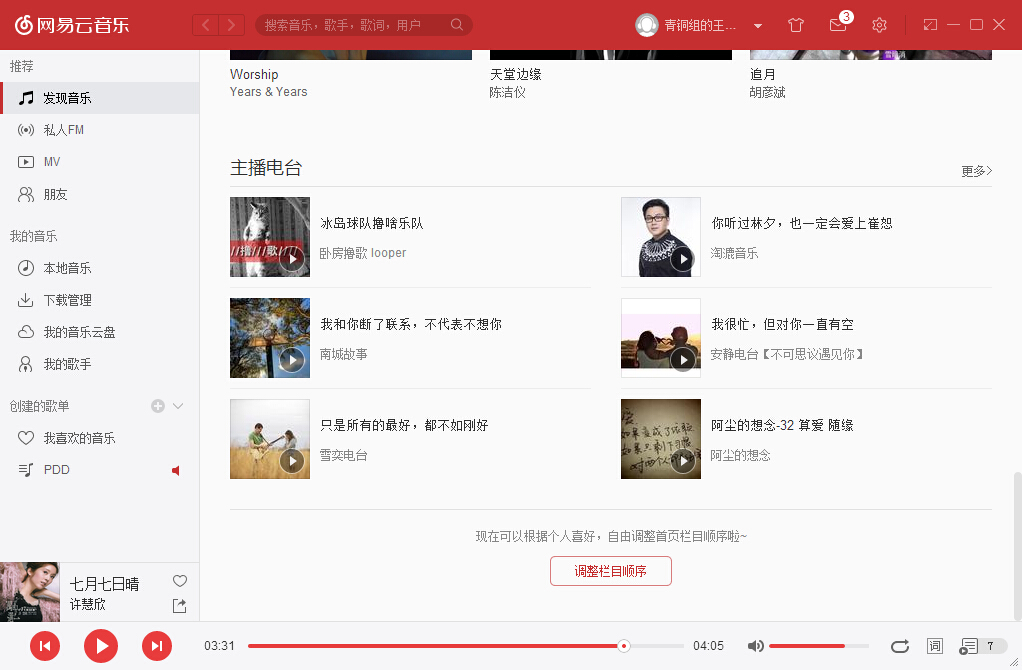
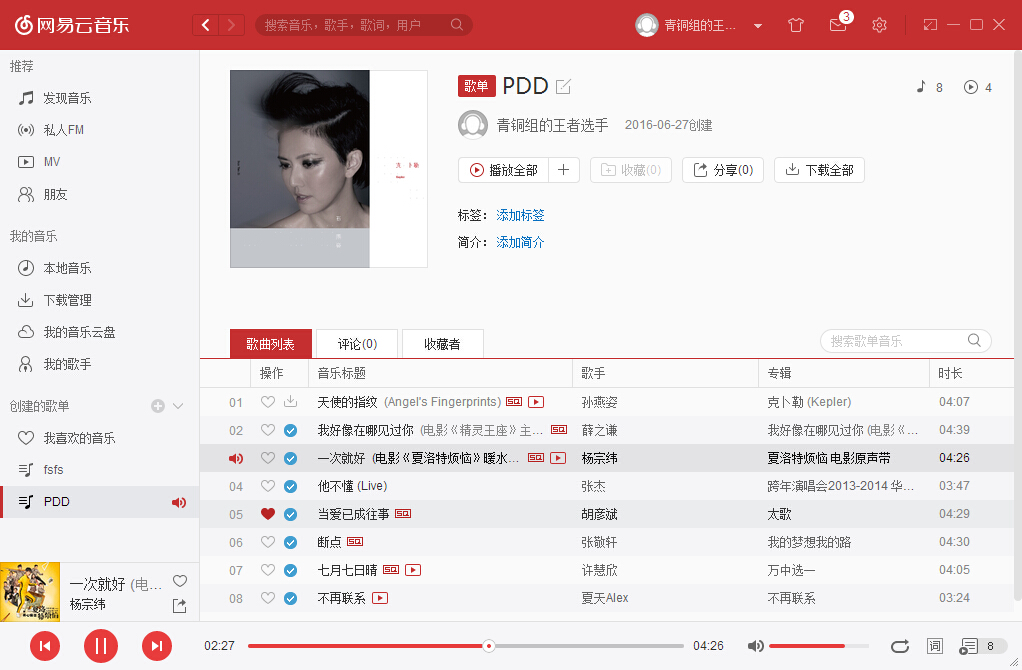
gedan ui

diff --git a/public/css/gedan/GeDan.scss b/public/css/gedan/GeDan.scss
@@ -1,4 +1,5 @@
 .gedan{
+  padding-top:20px;
   .nav-box{
     width:100%;
     height:100%;
@@ -32,6 +33,129 @@
           border-color:#d40708;
         }
       }
+    }
+  }
+
+
+  
+  .detail-nav{
+    >img{
+      display:block;
+      float:left;
+      width:200px;
+      height:200px;
+      border:2px solid #e4e4e4;
+    }
+    .information{
+      height:200px;
+      width:410px;
+      float:left;
+      margin-left:30px;
+      .first-box{
+        width:100%;
+        height:25px;
+        padding-top:3px;
+        >p,i{
+          height:22px;
+          text-align:center;
+        }
+        p.gedanflag{
+          float:left;
+          width:40px;
+          line-height:22px;
+          color: #fff;
+          font-size: 13px;
+          font-family: -webkit-body;
+          background-color:#c13a36;
+          border-radius:2px;
+        }
+        p.gedanName{
+          float: left;
+          width: 40px;
+          line-height: 22px;
+          font-size: 21px;
+          margin-left: 7px;
+        }
+        i{
+          display: inline-block;
+          float: left;
+          width: 16px;
+          line-height: 25px;
+          margin-left: 11px;
+          color: #a0a0a0;
+          font-size: 15px;
+          cursor:pointer;
+        }
+      }
+
+      .second-box{
+        width:100%;
+        height:30px;
+        margin-top:10px;
+        span{
+          display: inline-block;
+          float: left;
+          font-size: 13px;
+          line-height: 30px;
+          margin-left: 5px;
+          color: #848685;
+          height:30px;
+        }
+        span.date{
+          margin-left: 30px;
+          line-height: 30px;
+          font-size: 13px;
+        }
+        i{
+          height:30px;
+          width:30px;
+          display:inline-block;
+          float:left;
+          text-align: center;
+          line-height: 30px;
+          font-size: 21px;
+          background-color: #cccccc;
+          color:#fff;
+        }
+        p{
+          height: 30px;
+          line-height: 30px;
+          margin-left: 8px;
+          color: #5c5c5c;
+          font-family: -webkit-body;
+          font-size: 15px;
+          width: 121px;
+          float: left;
+        }
+        img{
+          border-radius:2px;
+          display:block;
+          float:left;
+          width:30px;
+          height:30px;
+        }
+      }
+
+
+      .third-box{
+        height:80px;
+        width:100%;
+        padding-top:25px;
+        padding-bottom:25px;
+        >div{
+          height:30px;
+          line-height:30px;
+          float:left;
+        }
+        >div.play{
+          width:140px;
+        }
+      }
+    }
+    .flag-box{
+      width:100px;
+      height:200px;
+      float:right;
     }
   }
 }

diff --git a/components/LeftPart.js b/components/LeftPart.js
@@ -5,6 +5,10 @@ import PlayingBlock from './PlayingBlock'
 import cs from 'classnames'
 import { dispatch } from '../redux/store/renderStore'
 import { newMusic } from '../redux/actions/actions'
+import db from '../dao/musicDao' 
+
+
+
 
 @connect((state) => {
   return {
@@ -14,9 +18,20 @@ import { newMusic } from '../redux/actions/actions'
 export default class LeftPart extends Component {
   constructor(){
     super()
+    this.state = {
+      name:null
+    }
+  }
+  componentDidMount() {
+    const self = this
+    db.gedan.find({name:"PDD"}, function (err,data) {
+      console.log(data)
+      self.setState({name:data[0].songer})
+    })     
   }
   render(){
     const module = this.props.music.showModule
+    const name = this.state.name
     return (
       <div className="LeftPart">
         <p className="block-title">推荐</p>
@@ -67,15 +82,15 @@ export default class LeftPart extends Component {
         </ul>
         <p className="block-title">我的歌单</p>
         <ul className="mylist">
-          <li className={cs(["item",{"choosed":module == 'gedan'}])} onClick={() => {this.showModule('lovemusic')}}>
+          <li className={cs(["item",{"choosed":module == 'xxx'}])} onClick={() => {this.showModule('gedan')}}>
             <div className="choseflag"></div>
             <i className="iconfont icon-xin"></i>
             <p>我最最喜欢的音乐</p>
           </li>
-          <li className={cs(["item",{"choosed":module == 'gedan'}])} onClick={() => {this.showModule('PDD')}}>
+          <li className={cs(["item",{"choosed":module == 'gedan'}])} onClick={() => {this.showModule('gedan')}}>
             <div className="choseflag"></div>
             <i className="iconfont icon-yinle1"></i>
-            <p>PDD</p>
+            <p>{name}</p>
           </li>
         </ul>
         <PlayingBlock></PlayingBlock>

diff --git a/components/gedan/Gedan.js b/components/gedan/Gedan.js
@@ -12,10 +12,32 @@ export default class Gedan extends Component {
         const module = this.props.module
         return (
           <div className={cs(['content-box','gedan','nodrag',{"hide": module!= 'gedan'}])}>
-            <div className="nav-box nodrag">
-                <div className="bottom-nav">
-                    <p className="tip">正在完善所有功能,敬请期待</p>
-                    <div><button>gedan</button></div>
+            <div className="nav-box detail-nav">
+                <img src="public/img/gedan/gedan01.jpg"/>
+                <div className="information">
+                    <div className="first-box">
+                        <p className="gedanflag">歌单</p>
+                        <p className="gedanName">PDD</p>
+                        <i className="iconfont icon-bianji"></i>
+                    </div>
+                    <div className="second-box">
+                        <i className="iconfont icon-touxiang"></i>
+                        
+                        <p>青铜组的王者选手</p>
+                        <span className="date">2016-05-27</span>
+                        <span>创建</span>
+                    </div>
+                    <div className="third-box">
+                        <div className="play"></div>
+                        <div className="collect"></div>
+                        <div className="share"></div>
+                        <div className="download"></div>
+                    </div>
+                    <div className="forth-box"></div>
+                    <div className="fifth-box"></div>
+                </div>
+                <div className="flag-box">
+                    <i></i><i></i>
                 </div>
             </div>
           </div>

diff --git a/public/fonts/wangyiyun/iconfont.css b/public/fonts/wangyiyun/iconfont.css
@@ -1,10 +1,10 @@
 
 @font-face {font-family: "iconfont";
-  src: url('iconfont.eot?t=1467682511'); /* IE9*/
-  src: url('iconfont.eot?t=1467682511#iefix') format('embedded-opentype'), /* IE6-IE8 */
-  url('iconfont.woff?t=1467682511') format('woff'), /* chrome, firefox */
-  url('iconfont.ttf?t=1467682511') format('truetype'), /* chrome, firefox, opera, Safari, Android, iOS 4.2+*/
-  url('iconfont.svg?t=1467682511#iconfont') format('svg'); /* iOS 4.1- */
+  src: url('iconfont.eot?t=1467722732'); /* IE9*/
+  src: url('iconfont.eot?t=1467722732#iefix') format('embedded-opentype'), /* IE6-IE8 */
+  url('iconfont.woff?t=1467722732') format('woff'), /* chrome, firefox */
+  url('iconfont.ttf?t=1467722732') format('truetype'), /* chrome, firefox, opera, Safari, Android, iOS 4.2+*/
+  url('iconfont.svg?t=1467722732#iconfont') format('svg'); /* iOS 4.1- */
 }
 
 .iconfont {
@@ -19,6 +19,7 @@
 .icon-right:before { content: "\e604"; }
 .icon-right1:before { content: "\e600"; }
 .icon-right2:before { content: "\e601"; }
+.icon-bianji:before { content: "\e60a"; }
 .icon-i-left:before { content: "\e602"; }
 .icon-yunpan:before { content: "\e608"; }
 .icon-lastmonthnormal:before { content: "\e603"; }

diff --git a/dao/musicDao.js b/dao/musicDao.js
@@ -19,18 +19,18 @@ db.gedan = new nedb({
 })
 db.gedan.loadDatabase()
 
-
-const gedanDoc = {
-  hello: 'world'
+const item = {
+  heart:false,
+  download: false,
+  name:'PDD',
+  songer:'周杰伦',
+  cardName:'普苦情',
+  alltime:3602
 }
 
-
-db.gedan.insert(gedanDoc, function (err, newDoc) {
-
+db.gedan.insert(item, function (err, docData) {
+  
 })
 
-db.gedan.find({hello:'world'}, function (err, doc){
-  console.log(doc[0].hello)
-})
-
+export default db
 

diff --git a/components/MainBox.js b/components/MainBox.js
@@ -10,7 +10,7 @@ import Mv from './mv/Mv'
 import MySonger from './mysonger/MySonger'
 import SelfFM from './selfFM/SelfFM'
 import YunPan from './yunpan/YunPan'
-import '../dao/musicDao' 
+
 
 
 @connect((state) => {

diff --git a/redux/reducers/reducers.js b/redux/reducers/reducers.js
@@ -21,7 +21,7 @@ let findmusicInit = conv.get()
 
 //music init
 let musicInit = {
-  showModule:'findmusic'
+  showModule:'gedan'
 }
 
 //

diff --git a/README.md b/README.md
@@ -17,7 +17,8 @@
 
 # Point
 - [x] 保证store的唯一性  使用了electron-restore依赖库
-- [x]  发现他有的是兼顾了透明和显示完全  那应该不是用opacity
+- [x] 发现他有的是兼顾了透明和显示完全  那应该不是用opacity
+- [x] 数据库用的nedb  查询结果为对象数组  在编码方便需要转换..
 
 
 
@@ -54,7 +55,8 @@
 - [x] 张椿木
 
 
-
+# mood
+- [x] 最痛苦的事情就是写样式   so terrible
 
 # License
   MIT 
